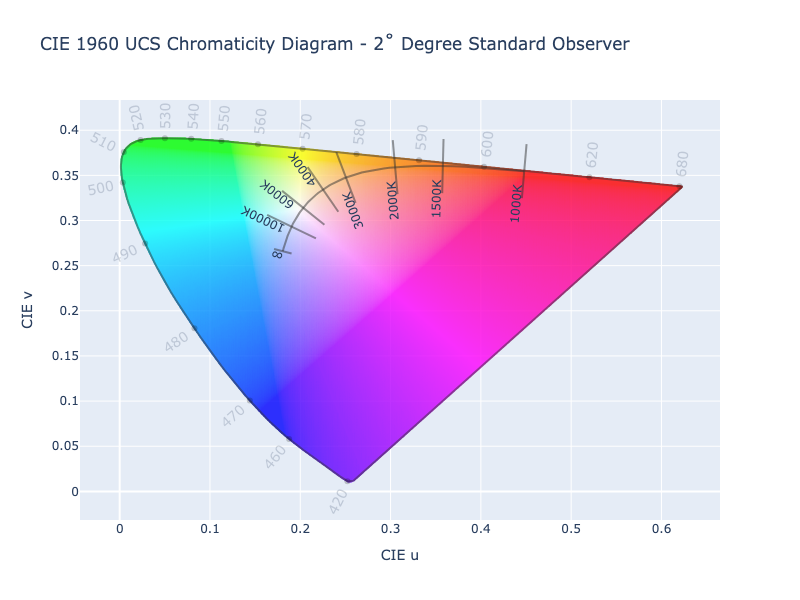
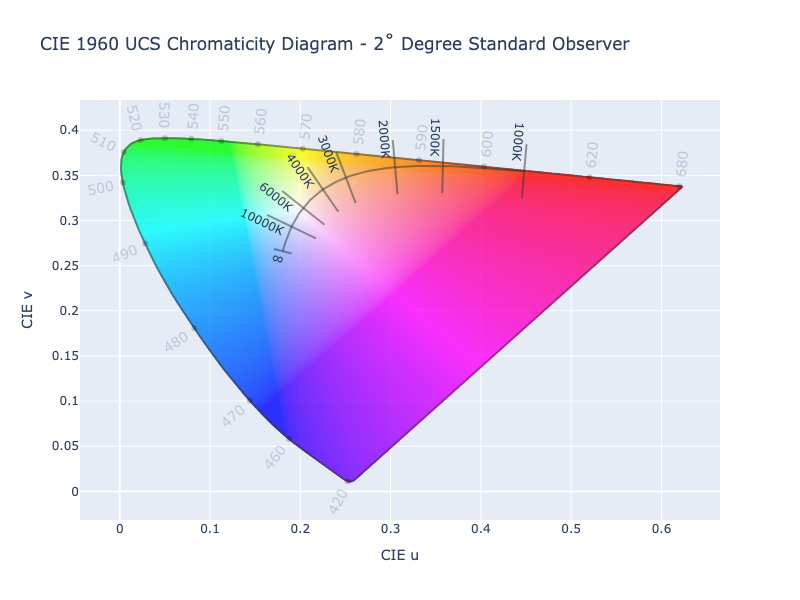
Cleanup of CIE diagrams
- Better management of temperature label offset and rotations
- Cleanup variable names
- Cleanup Color object usage
- Cleanup spectral locus label offset and rotations

diff --git a/tools/cie_diagrams.py b/tools/cie_diagrams.py
@@ -11,18 +11,17 @@ import math
 sys.path.insert(0, os.getcwd())
 
 try:
-    from coloraide_extras.everything import ColorAll
+    from coloraide_extras.everything import ColorAll as Color
 except ImportError:
-    from coloraide.everything import ColorAll
+    from coloraide.everything import ColorAll as Color
 from coloraide.cat import WHITES  # noqa: E402
 from coloraide import algebra as alg  # noqa: E402
-from coloraide.temperature import ohno_2013  # noqa: E402
 from coloraide import cmfs  # noqa: E402
 from coloraide import gamut  # noqa: E402
 from coloraide.spaces import Labish, LChish
 
 ALL_WHITES = copy.deepcopy(WHITES)
-ALL_WHITES['2deg']['D60'] = ColorAll.CS_MAP['aces2065-1'].WHITE
+ALL_WHITES['2deg']['D60'] = Color.CS_MAP['aces2065-1'].WHITE
 
 # Pick some arbitrary labels to display.
 labels_1931 = [
@@ -70,17 +69,13 @@ labels_1960 = [
 ISOTHERMS = {100000, 10000, 6000, 4000, 3000, 2000, 1500, 1000}
 
 
-class Color(ColorAll):
-    """Custom class for Pointer conversion."""
-
-
 def convert_chromaticity(xy, opt):
     """Convert chromaticities."""
 
     if opt.viewed_chromaticity == opt.chromaticity:
         return xy
 
-    color = ColorAll.chromaticity(
+    color = Color.chromaticity(
         opt.viewed_chromaticity,
         xy,
         opt.chromaticity,
@@ -101,15 +96,15 @@ def get_spectral_locus_labels(opt, poly):
     annotations = []
     for wave in sorted(opt.spectral_locus_labels):
         x, y = convert_chromaticity(
-            ColorAll.convert_chromaticity('xy-1931', opt.chromaticity, opt.observer.xy(wave))[:-1],
+            Color.convert_chromaticity('xy-1931', opt.chromaticity, opt.observer.xy(wave))[:-1],
             opt
         )
         x1, y1 = convert_chromaticity(
-            ColorAll.convert_chromaticity('xy-1931', opt.chromaticity, opt.observer.xy(wave - 0.05))[:-1],
+            Color.convert_chromaticity('xy-1931', opt.chromaticity, opt.observer.xy(wave - 0.05))[:-1],
             opt
         )
         x2, y2 = convert_chromaticity(
-            ColorAll.convert_chromaticity('xy-1931', opt.chromaticity, opt.observer.xy(wave + 0.05))[:-1],
+            Color.convert_chromaticity('xy-1931', opt.chromaticity, opt.observer.xy(wave + 0.05))[:-1],
             opt
         )
 
@@ -129,15 +124,22 @@ def get_spectral_locus_labels(opt, poly):
         dx = 1.0 / length
         dy = m / length
 
-        noadjust = wave < 695
+        # We only use 700 in the 1931 diagram, and it wraps back in on itself.
+        # It will be placed on the left, which isn't wrong, but not visually expected.
+        # Prevent this so it stays on the right side.
+        adjust = wave != 700
 
-        # Values really close to 700 extend past the normal locus part and cause the orientation to be off,
-        # so we force values greater than 695 to orient in sanely.
-        x0 = x + dx * (-distance if ((m >= 0 and not dirx) or (m < 0 and dirx and diry)) and noadjust else distance)
-        y0 = y + dy * (-distance if ((m >= 0 and diry) or (m < 0 and diry)) and noadjust else distance)
+        # Calculate sign
+        sx = (-1 if ((m >= 0 and not dirx) or (m < 0 and dirx)) and adjust else 1)
+        sy = (-1 if ((m >= 0 and diry) or (m < 0 and diry)) and adjust else 1)
 
-        rotate = math.degrees(math.atan2(y0 - y, x0 - x)) % 360
-        if rotate > 150:
+        # Apply offset
+        x0 = x + dx * distance * sx
+        y0 = y + dy * distance * sy
+
+        # Rotate text
+        rotate = math.degrees(math.atan2(dy, dx)) % 360
+        if 90 <= rotate <= 270:
             rotate += 180
             rotate %= 360
 
@@ -226,8 +228,8 @@ class DiagramOptions:
 
         self.viewed_chromaticity = None
         if mode not in ('1931', '1960', '1976'):
-            if ColorAll.CS_MAP.get(mode):
-                cs = ColorAll.CS_MAP[mode]
+            if Color.CS_MAP.get(mode):
+                cs = Color.CS_MAP[mode]
                 if isinstance(cs, Labish):
                     self.chromaticity = 'xy-1931'
                     self.viewed_chromaticity = mode
@@ -264,7 +266,7 @@ class DiagramOptions:
             self.axis_labels = self.viewed_chromaticity_names if not self.polar else ['a', 'b']
             self.title = f"CIE {mode} Chromaticity Diagram - 2˚ Degree Standard Observer"
 
-        self.cct = 'ohno-2013'
+        self.cct = 'robertson-1968'
 
         if title:
             self.title = title
@@ -301,26 +303,21 @@ def cie_diagram(
     if isotherms:
         black_body = True
 
-    class Color(ColorAll):
-        ...
-
-    Color.register([ohno_2013.Ohno2013(opt.observer, opt.white)], overwrite=True)
-
-    xys =[]
+    locus =[]
     annotations = []
 
     # Get points for the spectral locus
-    for r in alg.linspace(360, 780, len(opt.observer)):
+    for r in alg.linspace(opt.observer.start, opt.observer.end, len(opt.observer)):
         xy = opt.observer.xy(r)
         xy = Color.convert_chromaticity('xy-1931', opt.chromaticity, xy)[:-1]
-        xys.append(xy)
+        locus.append(xy)
 
     # Draw the bottom purple line
-    interp = alg.interpolate([xys[-1], xys[0]])
-    xys.extend([interp(i / 50) for i in range(1, 51)])
+    interp = alg.interpolate([locus[-1], locus[0]])
+    locus.extend([interp(i / 50) for i in range(1, 51)])
 
     # Create the polygon representing the locus
-    poly = Polygon(*zip(*[convert_chromaticity(r, opt) for r in xys]))
+    poly = Polygon(*zip(*[convert_chromaticity(r, opt) for r in locus]))
 
     # Create wavelength labels
     annotations = get_spectral_locus_labels(opt, poly)
@@ -425,7 +422,6 @@ def cie_diagram(
             )
 
     # Generate fill colors for inside the spectral locus
-    poly = Polygon(*zip(*[convert_chromaticity(r, opt) for r in xys]))
     if colorize:
         px = []
         py = []
@@ -523,7 +519,7 @@ def cie_diagram(
                 showlegend=False
             ))
 
-    # Spectral Locus
+    # Spectral Locus line
     fig.add_traces(data=go.Scatter(
         x=poly.x,
         y=poly.y,
@@ -533,8 +529,8 @@ def cie_diagram(
         opacity=0.5
     ))
 
+    # Add labels
     if label_opacity > 0:
-        # Label points
         lx = []
         ly = []
         for annotate in annotations:
@@ -752,25 +748,38 @@ def cie_diagram(
                     duvx.append(bu)
                     duvy.append(bv)
 
-                bottom = kelvin < 4000
                 label = f'{kelvin}K' if kelvin != 100000 else '∞'
-                rotate = 0 - (math.degrees(math.atan2(duvy[-1] - duvy[0], duvx[-1] - duvx[0])) % 360)
-                offset = duv_range[0 if bottom else 1] / 2
+                rotate = math.degrees(math.atan2(duvy[-1] - duvy[0], duvx[-1] - duvx[0])) % 360
+
+                # Place temp labels on the positive half of the Duv line.
+                offset = duv_range[1] / 2
                 c = Color.blackbody('xyz-d65', kelvin, offset, scale=False, method=opt.cct)
                 bu, bv = c.split_chromaticity(opt.chromaticity, white=opt.white)[:-1]
 
+                # Calculate offset of labels
                 ax, ay = convert_chromaticity([bu, bv], opt)
-                vert = [0, 0] if kelvin == 100000 else alg.polar_to_rect(-20 if bottom else 15, 0 - rotate)
-                horz = alg.polar_to_rect(6, 0 - rotate + 90)
-                label_offset = [vert[0] + horz[0], vert[1] + horz[1]]
+                lx, ly = alg.polar_to_rect(15, rotate) if kelvin != 100000 else alg.polar_to_rect(2, rotate + 180)
+                ls = alg.polar_to_rect(8, rotate + 90)
+                lx += ls[0]
+                ly += ls[1]
+
+                # Standard diagrams are known quantities, adjust labels to be
+                # consistent and readable. Non-standard ones we will just be
+                # consistent on how we rotate them just to prevent upside down labels.
+                if opt.mode in ('1960', '1976'):
+                    rotate += 180
+                elif opt.mode != '1931' and 90 <= rotate <= 270:
+                    rotate += 180
+                    rotate %= 360
+
                 fig.add_annotation(
                     text=label,
                     x=ax,
                     y=ay,
-                    xshift=label_offset[0],
-                    yshift=label_offset[1],
+                    xshift=lx,
+                    yshift=ly,
                     font={'size': 12},
-                    textangle=rotate,
+                    textangle=0 - rotate,
                     standoff=0,
                     showarrow=False
                 )
@@ -796,6 +805,7 @@ def cie_diagram(
             opacity=0.5
         ))
 
+    # Add legend of gamuts
     if overlay_legend and show_legend:
         fig.update_layout(legend={'x': 1, 'bgcolor': 'rgba(0,0,0,0)', 'xanchor': 'right', 'yanchor': 'top'})
 
